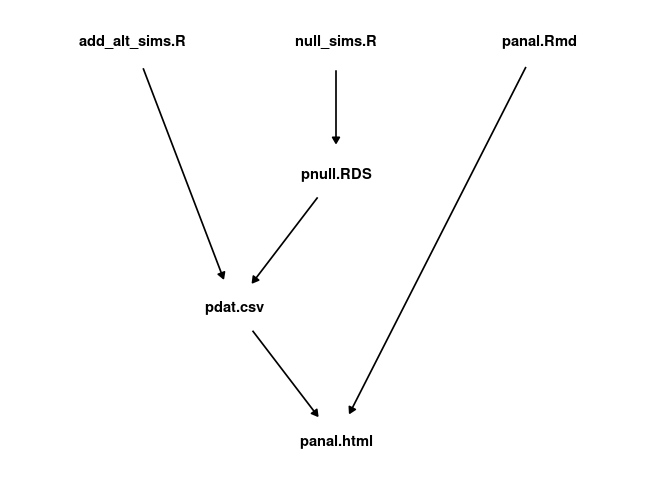
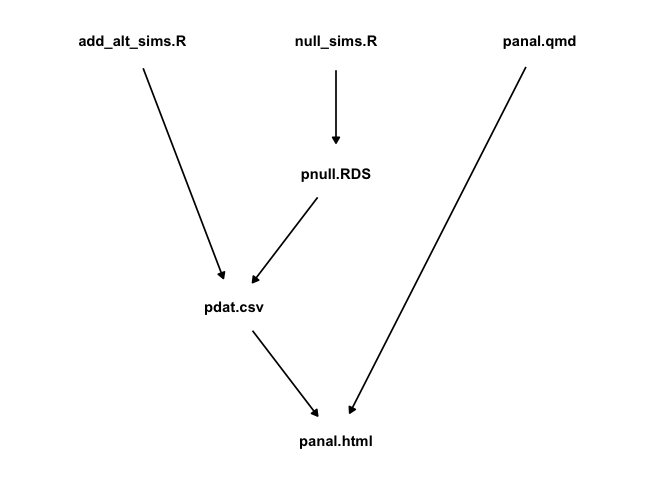
update readme

diff --git a/README.md b/README.md
@@ -11,19 +11,19 @@ a basic data analysis.
 
 The files after everything is evaluated are:
 
-  - Makefile
-  - Readme.Rmd
-  - Readme.md
-  - analysis
-      - add\_alt\_sims.R
-      - null\_sims.R
-      - panal.html
-      - panal.Rmd
-  - output
-      - add\_alt\_sims.Rout
-      - null\_sims.Rout
-      - pdat.csv
-      - pnull.RDS
+- Makefile
+- Readme.qmd
+- Readme.md
+- analysis
+  - add_alt_sims.R
+  - null_sims.R
+  - panal.qmd
+- output
+  - add_alt_sims.Rout
+  - null_sims.Rout
+  - panal.html
+  - pdat.csv
+  - pnull.RDS
 
 These files have the following dependency structure:
 
